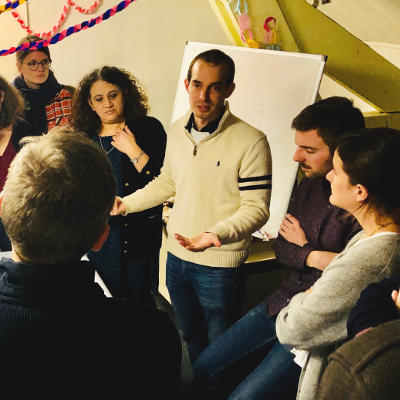
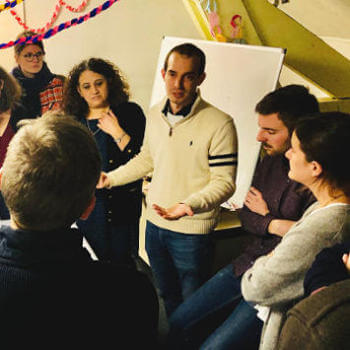
compression images + nv date

diff --git a/css/custom.min.css b/css/custom.min.css
@@ -1,1 +1,1 @@
-body{word-break:break-word}.h4,h1,h2,h3,h4,h5,h6{font-weight:700;font-family:inherit;line-height:1.375;word-break:break-word}section{padding:3rem 0}a{color:#4285f4}.scroll-to-top{z-index:1000;right:1rem;bottom:1rem;display:none}.scroll-to-top a{width:3.5rem;height:3.5rem;background-color:rgba(33,37,41,.5);line-height:3.5rem}#mainNav{padding-top:1rem;padding-bottom:1rem}#mainNav .navbar-nav{margin-top:1rem;letter-spacing:.0625rem}.navbar-brand img{max-width:155px;-webkit-transition:all .3s;transition:all .3s}.navbar-shrink img{max-width:120px}@media (min-width:992px){#mainNav{padding-top:.75rem;padding-bottom:.75rem;-webkit-transition:padding-top .3s,padding-bottom .3s;transition:padding-top .3s,padding-bottom .3s}#mainNav .navbar-nav{margin-top:0}#mainNav .navbar-nav>li.nav-item>a.nav-link.active,#mainNav .navbar-nav>li.nav-item>a.nav-link.active:active,#mainNav .navbar-nav>li.nav-item>a.nav-link.active:focus,#mainNav .navbar-nav>li.nav-item>a.nav-link.active:hover{color:#fff;background:#4285f4}#mainNav.navbar-shrink{padding-top:.5rem;padding-bottom:.5rem}}header.masthead{padding-top:8rem;padding-bottom:2rem}header.masthead h1{font-size:2.5rem;line-height:2.75rem}header.masthead p{font-size:1.125rem;line-height:1.5rem}@media (min-width:768px){header.masthead{padding-top:7rem}}.bulle-gauche{border-radius:50px}.bulle-droite{border-radius:50px}.arrow-down-gauche{width:0;height:0;border-left:20px solid transparent;border-right:20px solid transparent;border-top:20px solid #fff;margin-left:53%;margin-bottom:3rem}.arrow-down-droite{width:0;height:0;border-left:20px solid transparent;border-right:20px solid transparent;border-top:20px solid #fff;margin-left:35%}@media (min-width:992px){.arrow-down-gauche{margin-left:67%;margin-bottom:1rem}.arrow-down-droite{margin-left:25%}}.deroule{background:linear-gradient(179.61deg,rgba(251,188,5,0) 0,rgba(251,188,5,.15) 100%)}@media (min-width:992px){.deroule--etapes{min-height:192px}}@media (min-width:768px) and (max-width:991px){.deroule--etapes{min-height:120px}}@media (min-width:576px) and (max-width:767px){.deroule--etapes{min-height:168px}}.temoignages{background:linear-gradient(180deg,rgba(66,133,244,.15) 0,rgba(66,133,244,0) 100%)}.floating-label-form-group{position:relative}.floating-label-form-group input,.floating-label-form-group textarea{position:relative;z-index:1;background:0 0}.floating-label-form-group label{font-size:.85em;line-height:1.75em;position:relative;z-index:0;top:2em;display:block;margin:0;-webkit-transition:top .3s ease,opacity .3s ease;transition:top .3s ease,opacity .3s ease;vertical-align:middle;vertical-align:baseline;opacity:0}.floating-label-form-group:not(:first-child){padding-left:14px;border-left:1px solid #e9ecef}.floating-label-form-group-with-value label{top:0;opacity:1}.floating-label-form-group-with-focus label{color:#4285f4}.form-control{border-radius:.5rem;padding:1.5rem 1.25rem}input[type=checkbox]{width:1rem;height:1rem;vertical-align:middle}@media (min-width:992px){form{padding-left:3rem;padding-right:3rem}}.bg-primary{background-color:#4285f4!important}.bg-secondary{background-color:#f5f3f3!important}.text-primary{color:#4285f4!important}.btn-primary{background-color:#4285f4;border-color:#4285f4}.rounded{border-radius:.5rem!important}
+body{word-break:break-word}.h4,h1,h2,h3,h4,h5,h6{font-weight:700;font-family:inherit;line-height:1.375;word-break:break-word}section{padding:3rem 0}a{color:#4285f4}.scroll-to-top{z-index:1000;right:1rem;bottom:1rem;display:none}.scroll-to-top a{width:3.5rem;height:3.5rem;background-color:rgba(33,37,41,.5);line-height:3.5rem}#mainNav{padding-top:1rem;padding-bottom:1rem}#mainNav .navbar-nav{margin-top:1rem;letter-spacing:.0625rem}.navbar-brand img{max-width:155px;-webkit-transition:all .3s;transition:all .3s}.navbar-shrink img{max-width:120px}@media (min-width:992px){#mainNav{padding-top:.75rem;padding-bottom:.75rem;-webkit-transition:padding-top .3s,padding-bottom .3s;transition:padding-top .3s,padding-bottom .3s}#mainNav .navbar-nav{margin-top:0}#mainNav .navbar-nav>li.nav-item>a.nav-link.active,#mainNav .navbar-nav>li.nav-item>a.nav-link.active:active,#mainNav .navbar-nav>li.nav-item>a.nav-link.active:focus,#mainNav .navbar-nav>li.nav-item>a.nav-link.active:hover{color:#fff;background:#4285f4}#mainNav.navbar-shrink{padding-top:.5rem;padding-bottom:.5rem}}header.masthead{padding-top:8rem;padding-bottom:2rem}header.masthead h1{font-size:2.5rem;line-height:2.75rem}header.masthead p{font-size:1.125rem;line-height:1.5rem}@media (min-width:768px){header.masthead{padding-top:7rem}}.bulle-droite,.bulle-gauche{border-radius:50px;border-radius:50px}.arrow-down-gauche{width:0;height:0;border-left:20px solid transparent;border-right:20px solid transparent;border-top:20px solid #fff;margin-left:53%;margin-bottom:3rem}.arrow-down-droite{width:0;height:0;border-left:20px solid transparent;border-right:20px solid transparent;border-top:20px solid #fff;margin-left:35%}@media (min-width:992px){.arrow-down-gauche{margin-left:67%;margin-bottom:1rem}.arrow-down-droite{margin-left:25%}}.deroule{background:linear-gradient(179.61deg,rgba(251,188,5,0) 0,rgba(251,188,5,.15) 100%)}@media (min-width:992px){.deroule--etapes{min-height:192px}}@media (min-width:768px) and (max-width:991px){.deroule--etapes{min-height:120px}}@media (min-width:576px) and (max-width:767px){.deroule--etapes{min-height:168px}}.temoignages{background:linear-gradient(180deg,rgba(66,133,244,.15) 0,rgba(66,133,244,0) 100%)}.floating-label-form-group{position:relative}.floating-label-form-group input,.floating-label-form-group textarea{position:relative;z-index:1;background:0 0}.floating-label-form-group label{font-size:.85em;line-height:1.75em;position:relative;z-index:0;top:2em;display:block;margin:0;-webkit-transition:top .3s ease,opacity .3s ease;transition:top .3s ease,opacity .3s ease;vertical-align:middle;vertical-align:baseline;opacity:0}.floating-label-form-group:not(:first-child){padding-left:14px;border-left:1px solid #e9ecef}.floating-label-form-group-with-value label{top:0;opacity:1}.floating-label-form-group-with-focus label{color:#4285f4}.form-control{border-radius:.5rem;padding:1.5rem 1.25rem}input[type=checkbox]{width:1rem;height:1rem;vertical-align:middle}@media (min-width:992px){form{padding-left:3rem;padding-right:3rem}}.bg-primary{background-color:#4285f4!important}.bg-secondary{background-color:#f5f3f3!important}.text-primary{color:#4285f4!important}.btn-primary{background-color:#4285f4;border-color:#4285f4}.rounded{border-radius:.5rem!important}

diff --git a/index.html b/index.html
@@ -195,20 +195,6 @@
           <div class="row">
             <div class="col-12 col-md-6">
               <div class="rounded bg-secondary p-4 mb-4">
-                <h3 class="h5 font-weight-bold">Samedi 16 mai, 9h30</h3>
-                <p class="font-weight-bold mb-1">Session publique</p>
-                <p class="font-weight-bold">Animée par Yvain</p>
-                <p>Cet atelier aura lieu en ligne par visioconférence et en utilisant un outil de collaboration
-                  visuelle. Toutes les infos techniques seront envoyées la veille par email aux participants
-                  inscrits.</p>
-                <p class=""><span class="font-weight-bold">Lieu : </span>En ligne</p>
-                <div class="d-block text-right"><a target="_blank"
-                    href="https://www.billetweb.fr/en-ligne-atelier-fresque-du-numerique-par-yvain-mouneu15"
-                    class="btn btn-primary btn-lg">Inscrivez-vous</a></div>
-              </div>
-            </div>
-            <div class="col-12 col-md-6">
-              <div class="rounded bg-secondary p-4 mb-4">
                 <h3 class="h5 font-weight-bold">Lundi 18 mai, 17h30</h3>
                 <p class="font-weight-bold mb-1">Session publique</p>
                 <p class="font-weight-bold">Animée par Yvain</p>
@@ -249,6 +235,20 @@
                     class="btn btn-primary btn-lg">Inscrivez-vous</a></div>
               </div>
             </div>
+            <div class="col-12 col-md-6">
+              <div class="rounded bg-secondary p-4 mb-4">
+                <h3 class="h5 font-weight-bold">Mercredi 27 mai, 14h00</h3>
+                <p class="font-weight-bold mb-1">Session publique</p>
+                <p class="font-weight-bold">Animée par Aurélien et Yvain</p>
+                <p>Cet atelier aura lieu en ligne par visioconférence et en utilisant un outil de collaboration
+                  visuelle. Toutes les infos techniques seront envoyées la veille par email aux participants
+                  inscrits.</p>
+                <p class=""><span class="font-weight-bold">Lieu : </span>En ligne</p>
+                <div class="d-block text-right"><a target="_blank"
+                    href="https://www.billetweb.fr/en-ligne-atelier-fresque-du-numerique-par-aurelien-deragne-et-yvain-mouneu7"
+                    class="btn btn-primary btn-lg">Inscrivez-vous</a></div>
+              </div>
+            </div>
           </div>
         </div>
         <div class="col-lg-4 col-md-12">
@@ -264,7 +264,7 @@
   <!-- Témoignages -->
   <section class="temoignages pb-5">
     <div class="container">
-      <h2 class="text-center mb-5">Ils sont déjà 286 à avoir participé !</h2>
+      <h2 class="text-center mb-5">Ils sont déjà 332 à avoir participé !</h2>
       <div class="row">
         <div class="col-sm-12 col-md-4">
           <div class="shadow-sm rounded bg-white p-4 mb-4">
@@ -459,8 +459,8 @@
         <div class="col-12 col-md-8">
           <h2 class="mt-3 mb-4">Ici pas de scroll infini !</h2>
           <p class="mb-2">Les ressources sont précieuses, et votre temps aussi.<br>
-            Cette page pèse 591 Ko et a demandé 26 requêtes.</p>
-          <p class="mb-2">Une page web moyenne dépasse les 2000 Ko et demande 70 requêtes.</p>
+            Cette page pèse 408 Ko et a demandé 26 requêtes.</p>
+          <p class="mb-2">Une page web en moyenne dépasse les 2000 Ko et demande 70 requêtes.</p>
           <p class="mb-3">Envie de connaître l’impact environnemental de votre sit web ? Allez voir sur <a
               target="_blank" href="http://www.ecoindex.fr/">ecoindex.fr</a></p>
         </div>

diff --git a/css/custom.css b/css/custom.css
@@ -115,11 +115,8 @@ header.masthead p {
 
 /* Teaser */
 
-.bulle-gauche {
+.bulle-gauche, .bulle-droite {
   border-radius: 50px;
-}
-
-.bulle-droite {
   border-radius: 50px;
 }
 
